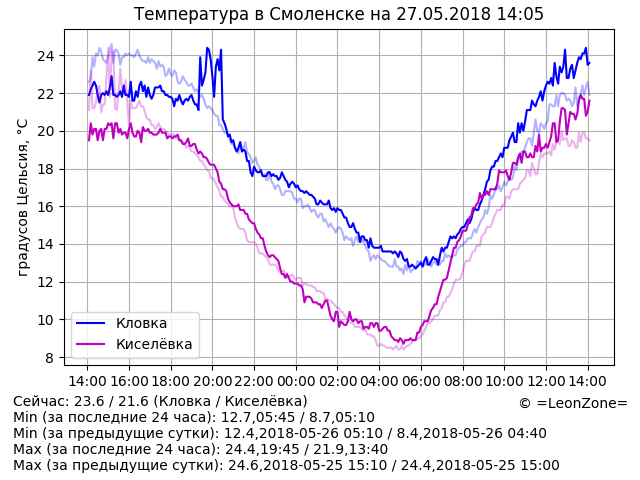
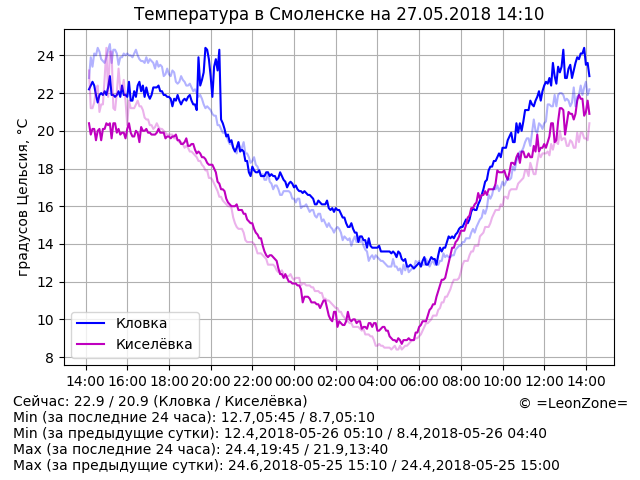
Update data

Changed region(s): [[0.125, 0.0938, 0.9375, 0.75], [0.0938, 0.7812, 0.9688, 0.8438], [0.8125, 0.0, 0.8438, 0.0625]]

diff --git a/index.html b/index.html
@@ -14,7 +14,7 @@
 	<p align="center"><script>document.write("<img src=\"graph.png?rnd="+Math.random()+"\" alt=\"Температура в Смоленске\" align=\"middle\" width=\"640\" height=\"480\" />")</script>
 	<p hidden="true">
 <!-- textinfo -->
-Сейчас: 23.6 / 21.6 (Кловка / Киселёвка)
+Сейчас: 22.9 / 20.9 (Кловка / Киселёвка)
 Min (за последние 24 часа): 12.7,05:45 / 8.7,05:10
 Min (за предыдущие сутки): 12.4,2018-05-26 05:10 / 8.4,2018-05-26 04:40
 Max (за последние 24 часа): 24.4,19:45 / 21.9,13:40
